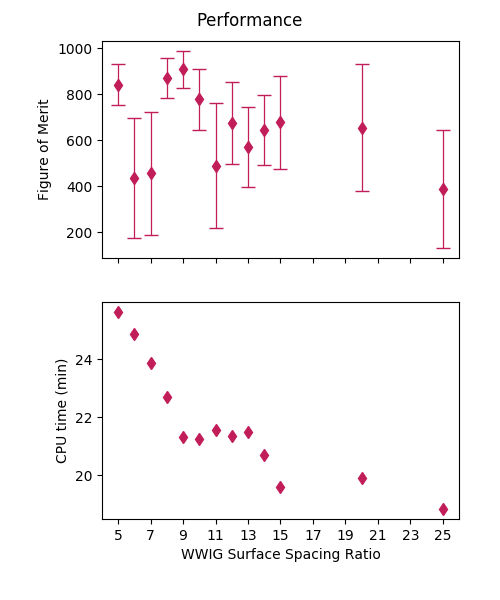
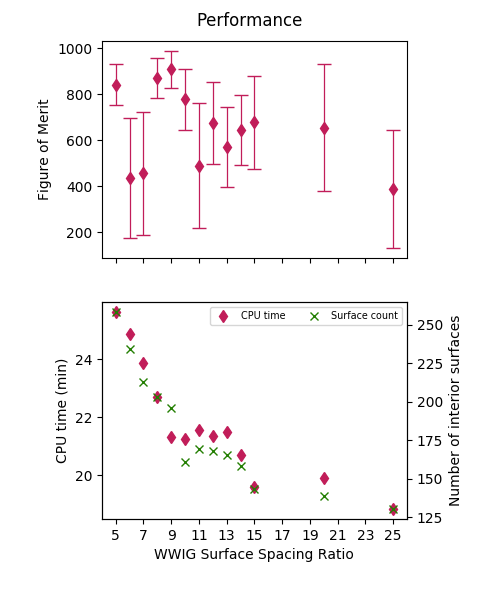
plot num surfs

diff --git a/performance-analysis/analysis/plot_tally_data.py b/performance-analysis/analysis/plot_tally_data.py
@@ -369,8 +369,6 @@ def plot_ww_efficiency(df_output, refinement, df_measure=None):
     title = 'Splitting Efficiency'
     fig.suptitle(title, fontsize='x-large')
     fig.tight_layout(pad=2.5, h_pad=0)
-    save_name = 'images/ww_efficiency_{}.png'.format(refinement)
-    plt.savefig(save_name)
 
     save_name = 'images/split_efficiency_{}.png'.format(refinement)
     plt.savefig(save_name)
@@ -536,7 +534,7 @@ def plot_fom(df_output, df_measure, refinement):
     plt.savefig(save_name)
 
 
-def plot_fom_ratio(df_output):
+def plot_fom_ratio(df_output, df_surfs):
 
     # get the output data for total tally
     df = df_output.loc[df_output['ratio'].notnull()][
@@ -552,18 +550,35 @@ def plot_fom_ratio(df_output):
                    marker=markers['wwig'], ls='', lw=lw, capsize=cs,
                    color=colors['wwig'], label='WWIG')
     ax[0].set_ylabel('Figure of Merit')
-    ax[1].plot(df['ratio'], df['cpu time'], marker=markers['wwig'], ls='',
-               color=colors['wwig'], label='WWIG')
+    lin1 = ax[1].plot(df['ratio'], df['cpu time'], marker=markers['wwig'], ls='',
+               color=colors['wwig'], label='CPU time')
     ax[1].set_ylabel('CPU time (min)')
+
+    df = pd.merge(df, df_surfs, how='left', left_on=[
+                  'ratio'], right_on=['ratio'])
+    print(df)
+
+    ax2 = ax[1].twinx()
+    lin2 = ax2.plot(df.loc[df['group'] == 'total']['ratio'],
+             df.loc[df['group'] == 'total']['num interior'],
+             marker='x', ls='',
+             color=colors['cwwm'], label='Surface count')
+    ax2.set_ylabel('Number of interior surfaces')
 
     xmax = max(df['ratio'])
     xmin = min(df['ratio'])
     plt.xticks(np.arange(xmin, xmax+2, step=2))
 
+    # legend
+    lns = lin1 + lin2
+    labs = [l.get_label() for l in lns]
+    ax[1].legend(lns, labs, loc=0, ncol=2,
+                 fontsize='x-small')
+
     # labels
     title = 'Performance'
     plt.suptitle(title)
-    plt.xlabel('WWIG Surface Spacing Ratio')
+    ax[1].set_xlabel('WWIG Surface Spacing Ratio')
     plt.tight_layout(pad=2.7, w_pad=.5)
     save_name = 'images/fom_ratio.png'
     plt.savefig(save_name)
@@ -677,6 +692,11 @@ if __name__ == '__main__':
         pd.read_csv(f, header=0, index_col=0) for f in all_rough_files),
         sort=False, ignore_index=True)
 
+    # ratio surface data
+    fsurfs = 'csv/ratio_surfs.csv'
+    df_ratio_surfs = pd.read_csv(fsurfs, header=0, index_col=0)
+    print(df_ratio_surfs.keys())
+
     print(df_output.keys())
     print(df_coarse.keys())
     print(df_rough.keys())
@@ -727,7 +747,7 @@ if __name__ == '__main__':
     # plot fom vs coarseness / coarseness
     plot_fom(df_output, df_coarse, 'coarseness')
     plot_fom(df_output, df_rough, 'roughness')
-    plot_fom_ratio(df_output)
+    plot_fom_ratio(df_output, df_ratio_surfs)
 
     # plot relative error for surface tally
     plot_relative_error(df_output, 'ratio')
